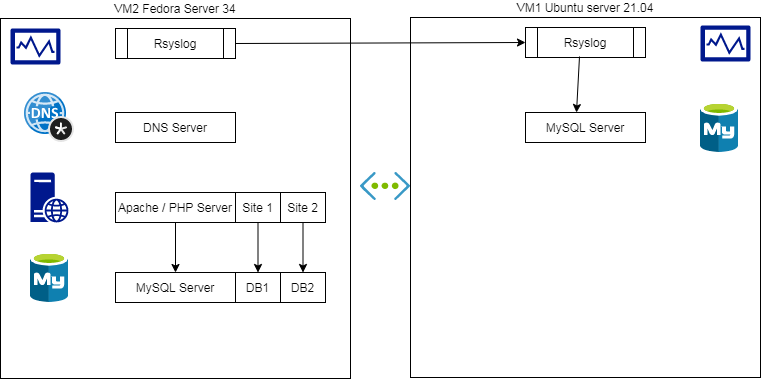
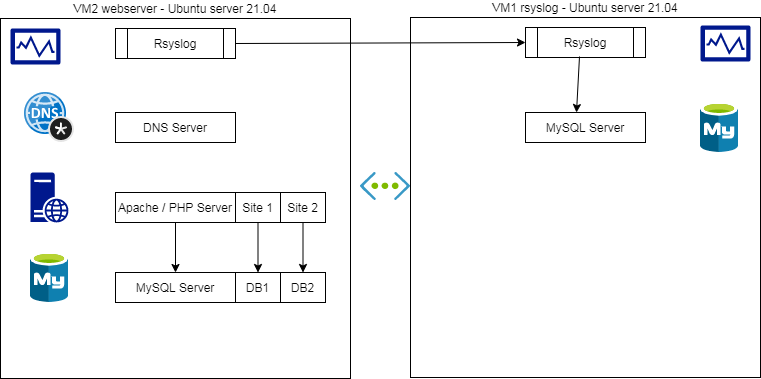
ajout DNS

Changed region(s): [[0.0907, 0.0, 0.3627, 0.058], [0.6347, 0.0, 0.9067, 0.029]]

diff --git a/linux/serveur_dev_web/serveur_developpement_web.md b/linux/serveur_dev_web/serveur_developpement_web.md
@@ -442,7 +442,7 @@ Dans un navigateur, aller à l'adresse 192.168.1.203 et vérifier que vous avez 
 ```
 $ cd /var/www/html
 $ sudo vi phpinfo.php
-fab@webserver:/var/www/html$ cat phpinfo.php
+$ cat phpinfo.php
 <?php
 phpinfo();
 ?>
@@ -462,5 +462,26 @@ syslog.ident = php
 syslog.facility = user
 syslog.filter = ascii
 
+```
+
+## 10 - VM2 - Installation serveur DNS
+
+Documentation: <https://doc.ubuntu-fr.org/bind9>
+
+### Installation de Bind
 
 ```
+$ sudo apt install bind9 dnsutils
+
+$ cd/etc/bind
+$ sudo vi named.conf.options
+
+        forwarders {
+                192.168.1.1;
+        };
+        listen-on port 53 { 127.0.0.1; 192.168.1.203; };
+        allow-query { localhost; 192.168.1.0/24; };
+
+$ sudo service bind9 restart
+```
+
